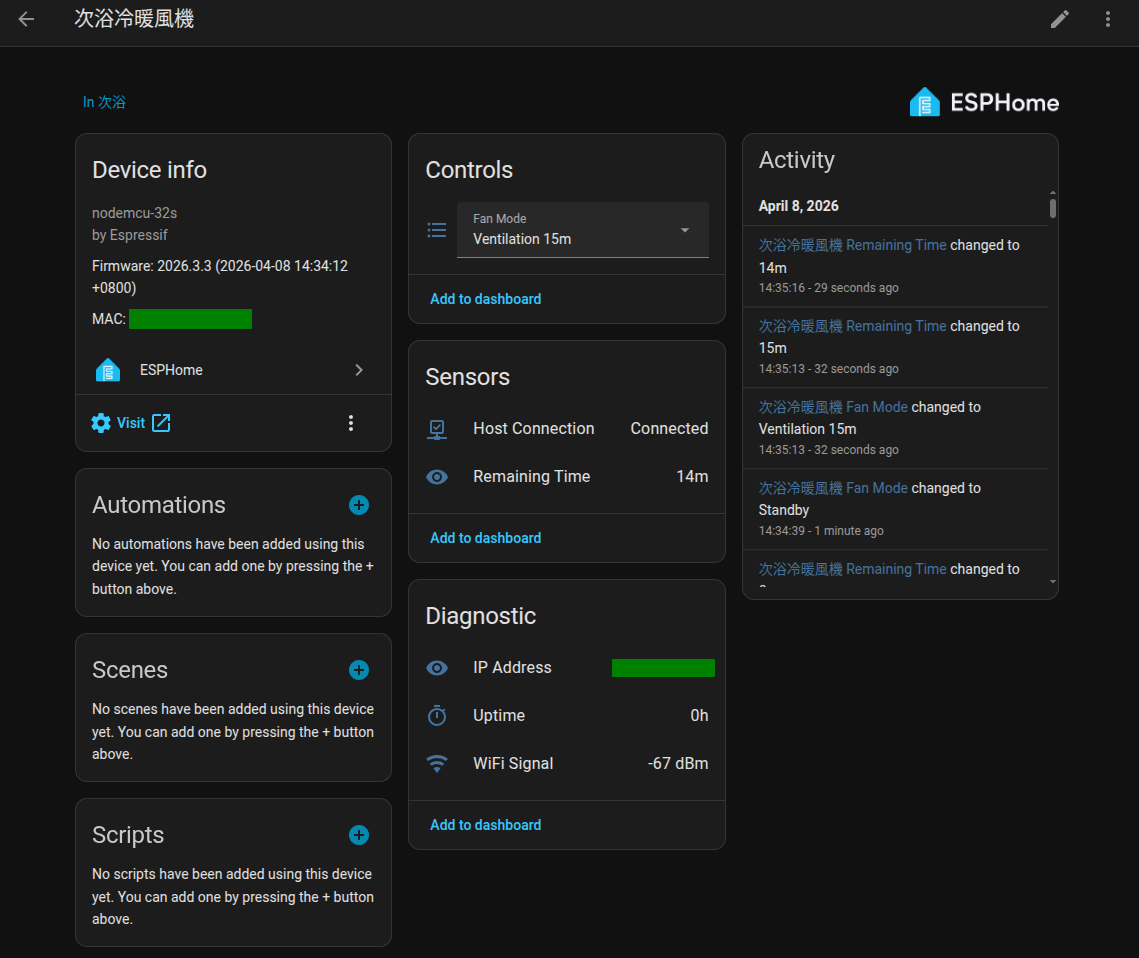
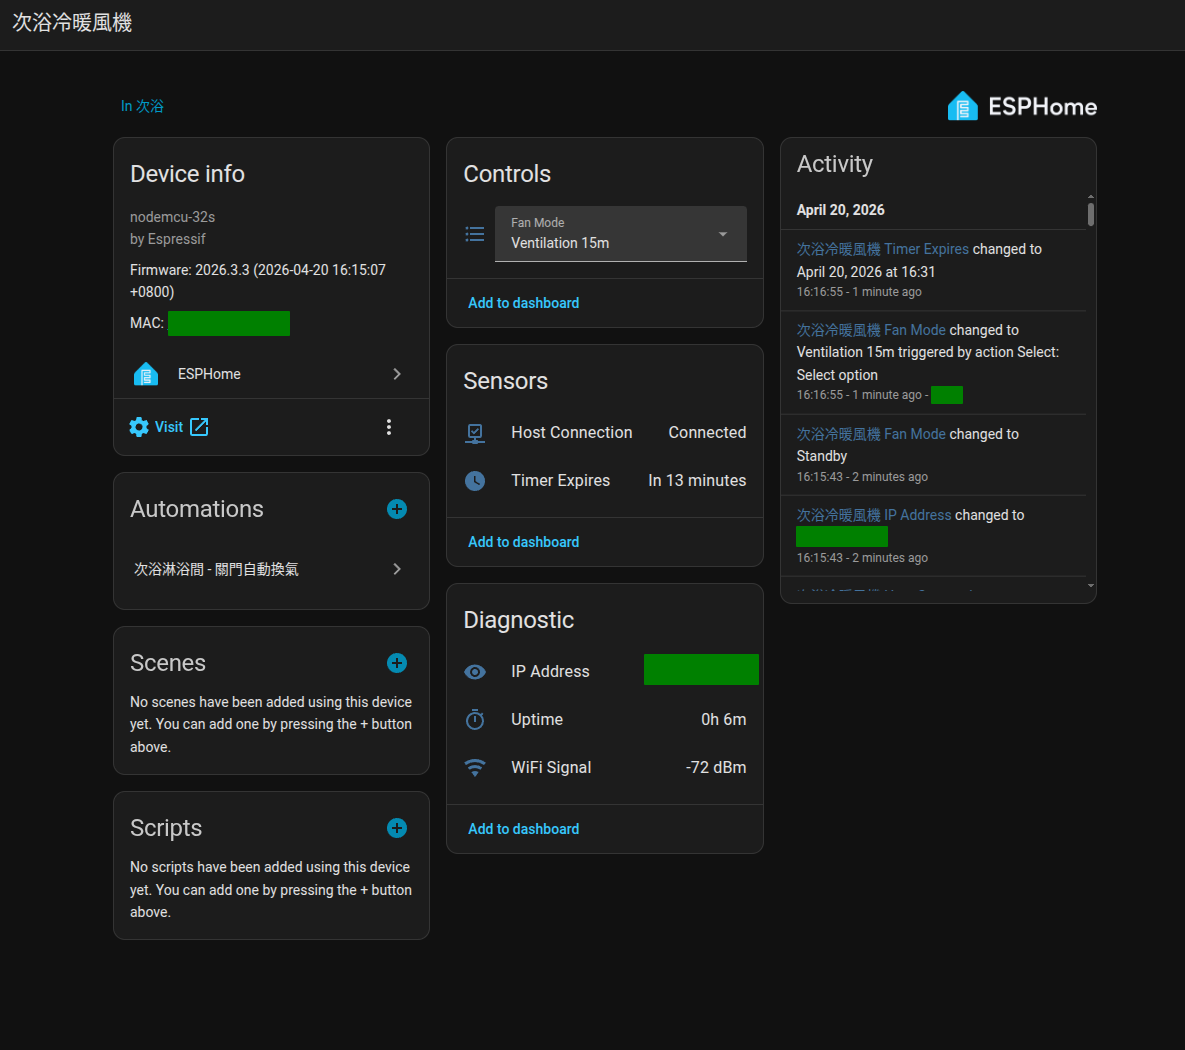
feat: expose timer expiry as timestamp sensor
Replace per-second countdown text ("14m", "13m"…) with a single
ISO 8601 expiry timestamp published once per mode change. HA renders
it as a relative time ("in 14 minutes") via device_class: timestamp,
avoiding per-second state churn.

- Rename entity: Remaining Time → Timer Expires (text_sensor.timer_expires)
- Add time: homeassistant source for wall-clock expiry calculation
- Defer publish until HA time sync; retry each second until valid
- Natural timer expiry leaves the past timestamp in place (HA shows
  "X ago"); only user-selected Standby / Continuous clears it to unknown
- millis()-based expiry detection → Standby command is unchanged

diff --git a/components/panasonic_fv30buy3w/panasonic_fv30buy3w.cpp b/components/panasonic_fv30buy3w/panasonic_fv30buy3w.cpp
@@ -74,7 +74,7 @@ void PanasonicFV30BUY3W::on_mode_set(const std::string &value) {
 
   countdown_duration_s_ = parse_duration(value);
   countdown_start_ms_ = millis();
-  update_countdown();
+  publish_expiry();
 }
 
 // ============ Countdown ============
@@ -90,40 +90,62 @@ uint32_t PanasonicFV30BUY3W::parse_duration(const std::string &command) {
   return 0;
 }
 
-void PanasonicFV30BUY3W::update_countdown() {
-  std::string text;
-  if (countdown_duration_s_ == 0) {
-    text = "0s";
-  } else if (countdown_duration_s_ == UINT32_MAX) {
-    text = "Continuous";
-  } else {
-    uint32_t elapsed = (millis() - countdown_start_ms_) / 1000;
-    int32_t remaining = (int32_t)countdown_duration_s_ - (int32_t)elapsed;
-    if (remaining <= 0) {
-      // Timer expired — send standby and reset
-      ESP_LOGI(TAG, "Countdown expired, switching to standby");
-      current_command_ = "Standby";
-      command_pending_ = true;
-      countdown_duration_s_ = 0;
-      if (mode_select_) mode_select_->publish_state("Standby");
-      text = "0s";
-    } else if (remaining < 60) {
-      // Last minute — show seconds
-      text = to_string(remaining) + "s";
-    } else if (remaining < 3600) {
-      int m = remaining / 60;
-      text = to_string(m) + "m";
-    } else {
-      int h = remaining / 3600;
-      int m = (remaining % 3600) / 60;
-      text = to_string(h) + "h " + to_string(m) + "m";
-    }
+void PanasonicFV30BUY3W::check_timer_expiry() {
+  if (countdown_duration_s_ == 0 || countdown_duration_s_ == UINT32_MAX) return;
+
+  uint32_t elapsed = (millis() - countdown_start_ms_) / 1000;
+  if (elapsed < countdown_duration_s_) return;
+
+  ESP_LOGI(TAG, "Countdown expired, switching to standby");
+  current_command_ = "Standby";
+  command_pending_ = true;
+  countdown_duration_s_ = 0;
+  if (mode_select_) mode_select_->publish_state("Standby");
+  // Intentionally leave timer_expires_ alone: HA keeps showing the past
+  // expiry ("X ago"), accurate for natural expiry. Only user-chosen Standby clears it.
+}
+
+void PanasonicFV30BUY3W::publish_expiry() {
+  if (!timer_expires_) {
+    expiry_pending_publish_ = false;
+    return;
   }
 
-  if (remaining_time_ && text != last_remaining_str_) {
-    last_remaining_str_ = text;
-    remaining_time_->publish_state(text);
+  // Standby or Continuous → no valid expiry timestamp
+  if (countdown_duration_s_ == 0 || countdown_duration_s_ == UINT32_MAX) {
+    if (last_expiry_str_ != "") {
+      last_expiry_str_ = "";
+      timer_expires_->publish_state("");
+    }
+    expiry_pending_publish_ = false;
+    return;
   }
+
+  // Defer until HA time is synchronised.
+  if (time_ == nullptr || !time_->now().is_valid()) {
+    expiry_pending_publish_ = true;
+    return;
+  }
+
+  uint32_t elapsed = (millis() - countdown_start_ms_) / 1000;
+  if (elapsed >= countdown_duration_s_) {
+    expiry_pending_publish_ = false;
+    return;
+  }
+  uint32_t remaining_s = countdown_duration_s_ - elapsed;
+
+  time_t expiry_epoch = (time_t) (time_->now().timestamp + remaining_s);
+  struct tm tm_utc;
+  gmtime_r(&expiry_epoch, &tm_utc);
+  char buf[32];
+  strftime(buf, sizeof(buf), "%Y-%m-%dT%H:%M:%S+00:00", &tm_utc);
+  std::string s(buf);
+
+  if (s != last_expiry_str_) {
+    last_expiry_str_ = s;
+    timer_expires_->publish_state(s);
+  }
+  expiry_pending_publish_ = false;
 }
 
 // ============ Component Lifecycle ============
@@ -135,7 +157,7 @@ void PanasonicFV30BUY3W::setup() {
 
   if (mode_select_) mode_select_->publish_state("Standby");
   if (host_connection_) host_connection_->publish_state(false);
-  if (remaining_time_) remaining_time_->publish_state("0s");
+  if (timer_expires_) timer_expires_->publish_state("");
 
   command_pending_ = true;
 }
@@ -143,10 +165,11 @@ void PanasonicFV30BUY3W::setup() {
 void PanasonicFV30BUY3W::loop() {
   uint32_t now = millis();
 
-  // Update countdown every second
+  // Once per second: check for timer expiry and retry deferred publish.
   if (now - last_countdown_update_ >= 1000) {
     last_countdown_update_ = now;
-    update_countdown();
+    check_timer_expiry();
+    if (expiry_pending_publish_) publish_expiry();
   }
 
   if (now - last_cycle_ < 1460) return;

diff --git a/components/panasonic_fv30buy3w/panasonic_fv30buy3w.h b/components/panasonic_fv30buy3w/panasonic_fv30buy3w.h
@@ -4,6 +4,7 @@
 #include "esphome/components/select/select.h"
 #include "esphome/components/text_sensor/text_sensor.h"
 #include "esphome/components/binary_sensor/binary_sensor.h"
+#include "esphome/components/time/real_time_clock.h"
 #include <Arduino.h>
 
 namespace esphome {
@@ -203,7 +204,8 @@ class PanasonicFV30BUY3W : public Component {
   void set_pin(uint8_t pin) { pin_ = pin; }
   void set_mode_select(FanModeSelect *s) { mode_select_ = s; }
   void set_host_connection(binary_sensor::BinarySensor *s) { host_connection_ = s; }
-  void set_remaining_time(text_sensor::TextSensor *s) { remaining_time_ = s; }
+  void set_timer_expires(text_sensor::TextSensor *s) { timer_expires_ = s; }
+  void set_time(time::RealTimeClock *t) { time_ = t; }
 
   void setup() override;
   void loop() override;
@@ -214,8 +216,9 @@ class PanasonicFV30BUY3W : public Component {
  protected:
   uint8_t pin_;
   FanModeSelect *mode_select_{nullptr};
-  text_sensor::TextSensor *remaining_time_{nullptr};
+  text_sensor::TextSensor *timer_expires_{nullptr};
   binary_sensor::BinarySensor *host_connection_{nullptr};
+  time::RealTimeClock *time_{nullptr};
 
   // State
   std::string current_command_{"Standby"};
@@ -227,8 +230,10 @@ class PanasonicFV30BUY3W : public Component {
   uint32_t countdown_start_ms_{0};
   uint32_t countdown_duration_s_{0};  // 0=standby, UINT32_MAX=continuous
   uint32_t last_countdown_update_{0};
-  std::string last_remaining_str_{};
-  void update_countdown();
+  bool expiry_pending_publish_{false};
+  std::string last_expiry_str_{};
+  void check_timer_expiry();
+  void publish_expiry();
   static uint32_t parse_duration(const std::string &command);
 
   // Protocol I/O

diff --git a/components/panasonic_fv30buy3w/text_sensor.py b/components/panasonic_fv30buy3w/text_sensor.py
@@ -4,12 +4,12 @@ from esphome.components import text_sensor
 from esphome.const import CONF_ID
 from . import panasonic_fv30buy3w_ns, PanasonicFV30BUY3W, CONF_PANASONIC_FV30BUY3W_ID
 
-CONF_REMAINING_TIME = "remaining_time"
+CONF_TIMER_EXPIRES = "timer_expires"
 
 CONFIG_SCHEMA = cv.Schema(
     {
         cv.GenerateID(CONF_PANASONIC_FV30BUY3W_ID): cv.use_id(PanasonicFV30BUY3W),
-        cv.Optional(CONF_REMAINING_TIME): text_sensor.text_sensor_schema(),
+        cv.Optional(CONF_TIMER_EXPIRES): text_sensor.text_sensor_schema(),
     }
 )
 
@@ -17,6 +17,6 @@ CONFIG_SCHEMA = cv.Schema(
 async def to_code(config):
     parent = await cg.get_variable(config[CONF_PANASONIC_FV30BUY3W_ID])
 
-    if CONF_REMAINING_TIME in config:
-        sens = await text_sensor.new_text_sensor(config[CONF_REMAINING_TIME])
-        cg.add(parent.set_remaining_time(sens))
+    if CONF_TIMER_EXPIRES in config:
+        sens = await text_sensor.new_text_sensor(config[CONF_TIMER_EXPIRES])
+        cg.add(parent.set_timer_expires(sens))

diff --git a/components/panasonic_fv30buy3w/__init__.py b/components/panasonic_fv30buy3w/__init__.py
@@ -1,6 +1,7 @@
 import esphome.codegen as cg
 import esphome.config_validation as cv
-from esphome.const import CONF_ID, CONF_PIN
+from esphome.components import time as time_
+from esphome.const import CONF_ID, CONF_PIN, CONF_TIME_ID
 
 CODEOWNERS = ["@kirintw"]
 AUTO_LOAD = ["select", "text_sensor", "binary_sensor"]
@@ -16,6 +17,7 @@ CONFIG_SCHEMA = cv.Schema(
     {
         cv.GenerateID(): cv.declare_id(PanasonicFV30BUY3W),
         cv.Required(CONF_PIN): cv.int_range(min=0, max=39),
+        cv.Optional(CONF_TIME_ID): cv.use_id(time_.RealTimeClock),
         # TODO: proxy mode — reserve a second pin for passthrough
         # cv.Optional("panel_pin"): cv.int_range(min=0, max=39),
     }
@@ -26,3 +28,6 @@ async def to_code(config):
     var = cg.new_Pvariable(config[CONF_ID])
     await cg.register_component(var, config)
     cg.add(var.set_pin(config[CONF_PIN]))
+    if CONF_TIME_ID in config:
+        time_var = await cg.get_variable(config[CONF_TIME_ID])
+        cg.add(var.set_time(time_var))

diff --git a/README.md b/README.md
@@ -86,14 +86,14 @@ esphome run fan.yaml --device OTA
 
 ## Entities
 
-| Entity          | Type                     | Description                                             |
-| --------------- | ------------------------ | ------------------------------------------------------- |
-| Fan Mode        | select                   | Standby + 21 mode/timer combinations                    |
-| Remaining Time  | text_sensor              | Internal countdown (shows "Continuous" for Cont. modes) |
-| Host Connection | binary_sensor            | Host unit communication status                          |
-| IP Address      | text_sensor (diagnostic) | Device IP address                                       |
-| Uptime          | sensor (diagnostic)      | Uptime in hours                                         |
-| WiFi Signal     | sensor (diagnostic)      | WiFi RSSI in dBm                                        |
+| Entity          | Type                     | Description                                            |
+| --------------- | ------------------------ | ------------------------------------------------------ |
+| Fan Mode        | select                   | Standby + 21 mode/timer combinations                   |
+| Timer Expires   | text_sensor (timestamp)  | Timer expiry as ISO 8601 (unknown for Standby / Cont.) |
+| Host Connection | binary_sensor            | Host unit communication status                         |
+| IP Address      | text_sensor (diagnostic) | Device IP address                                      |
+| Uptime          | sensor (diagnostic)      | Uptime in hours                                        |
+| WiFi Signal     | sensor (diagnostic)      | WiFi RSSI in dBm                                       |
 
 ### Available Modes
 

diff --git a/.claude/PROMPT-claude-code.md b/.claude/PROMPT-claude-code.md
@@ -104,7 +104,7 @@ LOW 6600µs → HIGH 3300µs → LOW 19800µs → HIGH 6600µs → LOW 16500µs 
 ### ESPHome Entities
 
 - `select.fan_mode` — single select: standby + 21 mode/timer combinations
-- `text_sensor.remaining_time` — internal countdown display
+- `text_sensor.timer_expires` — timer expiry timestamp (`device_class: timestamp`)
 - `binary_sensor.host_connection` — host communication status (diagnostic)
 
 ## Development
